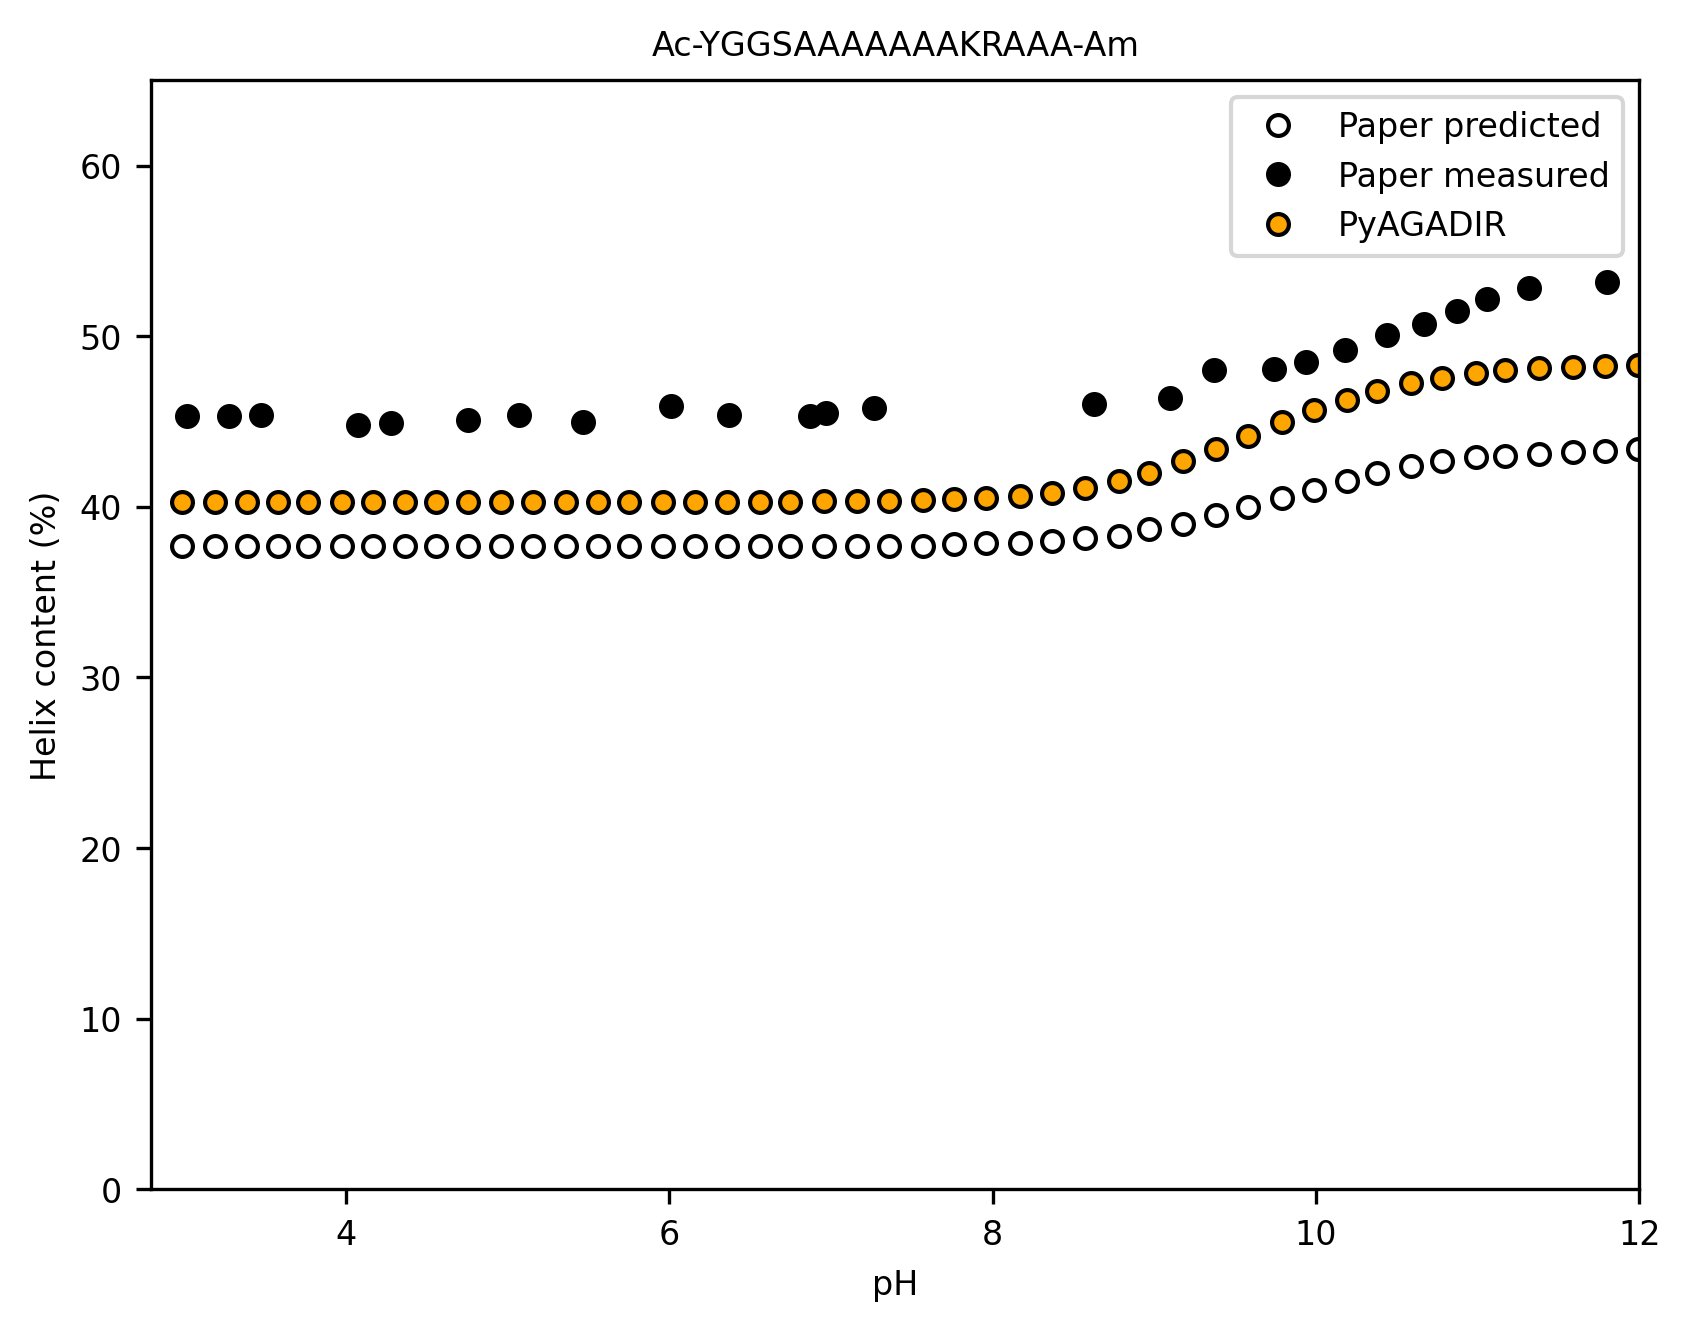
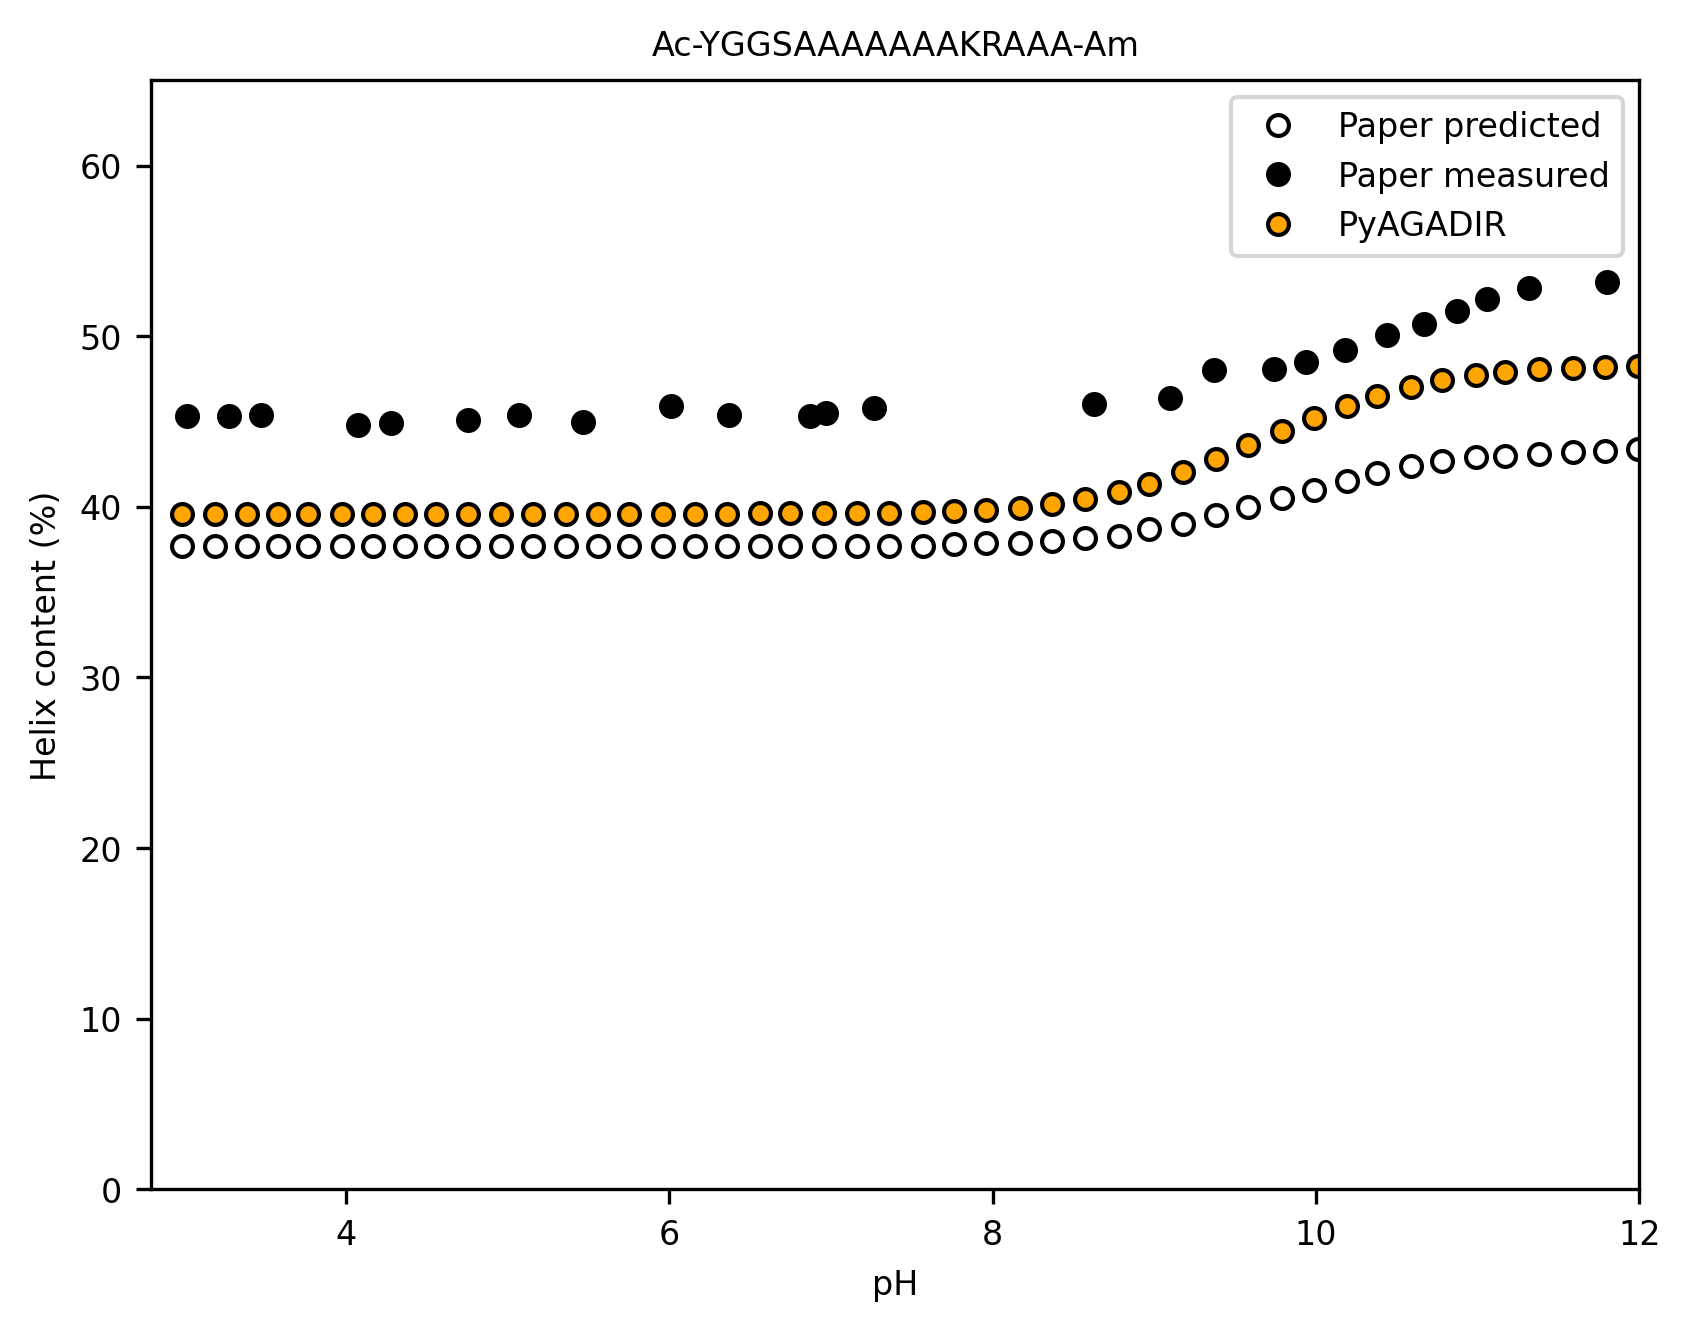
Revert "First-turn cation near field, with the charged Lys cells re-derived: 0.83 -> 0.803"
This reverts commit f9b0168 and regenerates the validation figures it changed.

The first-turn cation term acted only on charged Lys, Arg and His, but the
excess it was meant to remove is not a charge effect. In the Lys walk of
Lacroix et al. 1998 (Fig. 4g, Lys at N2 behind a Ser N-cap) the model
over-predicts by about as much above pH 10, where the Lys is neutral, as at
neutral pH. Cochran et al. 2001's N2 scan points the same way: against Ala at
N2, nearly every residue, charged or not, is predicted more helical than
measured (median about 0.22 kcal/mol), with Lys near the median. The term
therefore fitted part of a general N2 effect with a cation-only form, and with
the re-derived Lys cells the scored panels got worse overall (ALL 3.502 ->
3.542, structure 2.587 -> 2.828, Munoz & Serrano 1997 1.261 -> 1.642).

After the revert the scored panels are those of 34dfa10 plus the succinyl
change, which does not touch them: ALL 3.502, structure 2.587. Lacroix 1998
Figs 3b and 4 and Munoz & Serrano 1997 Fig. 4 are back to their state before
these changes; Munoz & Serrano 1995 Fig. 3 keeps the aromatic-His+ change.

Changed region(s): [[0.0923, 0.2772, 0.8923, 0.4005]]

diff --git a/pyagadir/energies.py b/pyagadir/energies.py
@@ -41,21 +41,13 @@ class ParamTable:
         return self._rows[key]
 
 
-# Extra first-turn energy (kcal/mol per +1 charge) of a helical cation at segment positions N1, N2, N3: the near-field
-# repulsion between the side-chain charge and the unpaired first-turn N-H groups that eq. 11 underestimates. From
-# continuum electrostatics (APBS) on built helices: helix minus PPII coil, uniform average over clash-free rotamers,
-# relative to the helix interior, interior dielectric 16 (the value at which the computed His+ - His0 contrasts match
-# Cochran et al. 2001, Protein Sci. 10, 463, N1 and N2 titrations), minus what eq. 11 already gives. With that one
-# constant the same calculation gives Lys at N1/N2 within 0.01 kcal/mol of the Cochran Lys scans (apolar-residue
-# reference). Salt-independent (near field). See params/README.md.
-FIRST_TURN_CATION = {"K": (0.126, 0.192, 0.007), "R": (0.092, 0.188, 0.019), "H": (0.076, 0.315, 0.123)}
-
 # Helix-state distance (A) between a succinyl N-cap's carboxylate and a charged side chain at N1, N2 or N3, used in
 # place of Lacroix 1998 Table VI 'N-cap f' (which places a free amine on the backbone: 9.2 A to N2 in the helix vs 9.6 A
 # in the coil). Each value is the distance at which this model's own Coulomb law reproduces the helix-minus-coil pair
 # energy from continuum electrostatics (APBS, carboxylate on the N-cap residue as the succinyl proxy, helix minus PPII,
-# rotamer-averaged, interior dielectric 16 as for FIRST_TURN_CATION) at 0.1 M and 3 C: acid N2 +0.50, acid N3 +0.35,
-# acid N1 +0.04, base N2 -0.34 kcal/mol. Pairs not listed keep Table VI. See params/README.md.
+# rotamer-averaged, interior dielectric 16, the value at which the same calculation matches the N1/N2 His titrations of
+# Cochran et al. 2001, Protein Sci. 10, 463) at 0.1 M and 3 C: acid N2 +0.50, acid N3 +0.35, acid N1 +0.04, base N2
+# -0.34 kcal/mol. Pairs not listed keep Table VI. See params/README.md.
 SUCCINYL_HELIX_DISTANCE = {("acid", 1): 9.33, ("acid", 2): 3.95, ("acid", 3): 5.27, ("base", 2): 4.80}
 
 
@@ -565,14 +557,6 @@ class PrecomputeParams:
             d_N, d_C = dist_n(n_pos), dist_c(c_pos)
             if d_N * 10.0 < 1.0 or d_C * 10.0 < 1.0:
                 return 0.0, 0.0
-            # First-turn near field: a helical Lys, Arg or His at N1-N3 sits next to the unpaired N-H groups of
-            # the first turn, and its long or bulky side chain leans back onto them. Eq. 11 at the Table VII
-            # distances underestimates this repulsion; the extra per +1 charge is FIRST_TURN_CATION (continuum
-            # electrostatics on built helices, helix minus PPII coil, rotamer-averaged, interior dielectric 16
-            # fitted to the His titrations of Cochran et al. 2001). Acids get no counterpart here: their attraction
-            # at the first turn is carried by their Table 1 N1-N3 cells.
-            if aa in FIRST_TURN_CATION and 1 <= n_pos <= 3 and c_pos >= 1:
-                phi_N += FIRST_TURN_CATION[aa][n_pos - 1]
             # the nearest end (ties go to the N-terminus); the other end as a half charge
             if n_pos <= c_pos:
                 if n_pos <= 9:

diff --git a/tests/test_capping.py b/tests/test_capping.py
@@ -153,25 +153,3 @@ def test_staple_full_with_capping_box():
     calc = EnergyCalculator(seq="LSAAELAAAAAAAA", i=1, j=12, pH=PH, T=TEMP, ionic_strength=IONIC, ncap=None, ccap=None,
                             params=EnergyCalculator.snapshot_params())
     assert calc.get_dG_staple() == pytest.approx(-0.90, abs=1e-6)
-
-
-def test_first_turn_cation_near_field():
-    """A helical Lys at N2 carries the FIRST_TURN_CATION near field on top of eq. 11; at N5 it does not."""
-    from pyagadir.energies import FIRST_TURN_CATION
-
-    def phi(pos):
-        seq = "A" * (pos - 1) + "K" + "A" * (12 - pos)
-        c = EnergyCalculator(seq=seq, i=0, j=14, pH=7.0, T=0.0, ionic_strength=0.1, ncap="Ac", ccap="Am")
-        return sum(c._sidechain_dipole_potential(pos))
-
-    def phi_ala_host_eq11(pos):
-        from pyagadir import energies as E
-        saved = dict(E.FIRST_TURN_CATION)
-        E.FIRST_TURN_CATION.clear()
-        try:
-            return phi(pos)
-        finally:
-            E.FIRST_TURN_CATION.update(saved)
-
-    assert abs((phi(2) - phi_ala_host_eq11(2)) - FIRST_TURN_CATION["K"][1]) < 1e-9
-    assert abs(phi(5) - phi_ala_host_eq11(5)) < 1e-12

diff --git a/tests/test_ionization.py b/tests/test_ionization.py
@@ -36,11 +36,8 @@ def _calc(seq, ncap, ccap, pH, T=0.0, M=0.01, i=None, j=None):
 
 
 def test_segment_ionization_free_energy_zero_when_groups_fully_charged():
-    # Lys stays charged at pH 7, so the ionisation free energy is ~0. Not exactly 0: Lys2 sits at N2 in the
-    # first-turn field (FIRST_TURN_CATION), which lowers its helix pKa by ~0.14 units, and the far-from-pKa
-    # residual is ~0.001 kcal/mol.
     c = _calc("AKAAAAKAAAAKAAGY", "Ac", "Am", pH=7.0)
-    assert abs(c.get_dG_ionization()) < 2e-3
+    assert abs(c.get_dG_ionization()) < 1e-3
 
 
 def test_segment_ionization_free_energy_positive_for_titrating_acid_pairs():

diff --git a/pyagadir/data/params/README.md b/pyagadir/data/params/README.md
@@ -33,8 +33,6 @@ The Glu (E) row departs from the published table: its charged columns are 0.172 
 
 The Ile (I) and Leu (L) N3 cells depart from the published table: I 1.08 → 1.26 and L 0.98 → 1.21. The published N3 values come from Petukhov et al. (1998, J. Mol. Biol. 278, 279; peptides Ac-AAXAAAAARAAARGGY-NH2) and were fitted in an earlier version of the model. With this model's other terms they no longer reproduce those peptides. Each cell was re-fitted so that the model's X3/Ala helicity ratio equals the measured one in two independent hosts, and the mean of the two fits was taken. The fits were +0.20 (Ile) and +0.16 (Leu) for Petukhov et al. (1998), and +0.17 and +0.30 for Iqbalsyah & Doig (2004, Protein Sci. 13, 32; Ac-AAXAAAAKAAAAKAGY-NH2). Met, Val and Gly N3 cells reproduce Petukhov et al. (1998) as published and are unchanged.
 
-The charged Lys cells at helical positions (N1, N2, N3, N4, Ncen, C1, C2, C3) depart from the published table: 0.83 -> 0.803. They change together with the first-turn cation term (`FIRST_TURN_CATION` in energies.py): a helical Lys, Arg or His at N1, N2 or N3 pays an extra near-field energy per +1 charge (K +0.126/+0.192/+0.007, R +0.092/+0.188/+0.019, His +0.076/+0.315/+0.123 kcal/mol at N1/N2/N3), the repulsion between the side-chain charge and the unpaired first-turn N-H groups that eq. 11 underestimates. The values come from continuum electrostatics (APBS) on built helices, helix minus PPII coil, averaged over clash-free rotamers and taken relative to the helix interior, at the interior dielectric (16) at which the computed His+ - His0 contrasts match the N1 and N2 His titrations of Cochran, Penel & Doig (2001, Protein Sci. 10, 463); at that dielectric the same calculation gives Lys at N1/N2 within 0.01 kcal/mol of the Cochran Lys scans, measured against the apolar residues. Acids get no counterpart because their first-turn attraction is already in their Table 1 N1-N3 cells; the published table gives the bases flat cells. Lacroix's flat Lys value was fitted to Lys-rich peptides without this term, so it carries an average first-turn Lys cost; the Lys cells were re-derived so that Lys-rich, otherwise uncharged literature peptides (116 rows: Chakrabartty et al. 1993, 1994; Padmanabhan et al. 1994, 1996; Doig & Baldwin 1995 Tables 1 and 3; Cochran et al. 2001; Iqbalsyah & Doig 2004; at least three Lys, no Asp, Glu, His, Arg or Cys) keep the mean signed residual they had without the term (-1.19 helix points). Effect against the previous model (RMSE): Lacroix -0.13, Munoz & Serrano 1995 +0.09, Munoz & Serrano 1997 +0.38, all scored panels +0.04; literature sets Cochran et al. 2001 N2 -1.08 and its titrations -0.86, the C-peptide papers -0.3 to -0.4; worse by more than 1.0: Marqusee & Baldwin 1987 (+1.27) and Padmanabhan et al. 1996 (+1.04), both with a Lys at N2. Lys in the Ala-Gln host of Scholtz et al. 1993 stays over-predicted, more so than before.
-
 Capping box: when the N-cap is Ser, Thr, Asp or Asn and N3 is Glu, the Nc-3 value gets an extra -0.9 kcal/mol, weighted by the helix-state ionisation of that Glu (set in `get_dG_Ncap`). The published Nc-3 column gives Ser no capping-box advantage at all (Nc-3 -0.65 vs Nc-1 -0.70). Peptide measurements that isolate the motif put it at -0.9 +/- 0.3 kcal/mol (mean of five within-paper comparisons): Glu vs Ala, Gln and Asp at N3 with a Ser N-cap (Zhou et al. 1994, Proteins 18, 1, Table I), and Ser vs Ala N-caps (Petukhov et al. 1996, Biochemistry 35, 387, Table 1). Glu outperforms Gln by as much as it outperforms Ala, which places the effect on the charged carboxylate.
 
 
@@ -108,7 +106,7 @@ C-cap f 		Distance between the free C-terminal group, when this group is located
 C’ f 		Distance between the free C-terminal group, when this group is located at position C’, 
 		and a helical residue at position i-x.  
 
-A succinylated N-cap departs from row 'N-cap f' for charged side chains at N1-N3. The row places a free amine on the backbone (9.2 A to N2 in the helix against 9.6 A in the coil, almost no change between the states), but the succinyl carboxylate sits on a flexible -CH2-CH2- arm and an N2/N3 side chain leans back toward the N-cap in the helix. Its helix distances (`SUCCINYL_HELIX_DISTANCE` in energies.py) are acid N1 9.33, acid N2 3.95, acid N3 5.27 and Lys/Arg N2 4.80 A; other pairs keep the table. Each is the distance at which this model's Coulomb law reproduces the helix-minus-coil pair energy from continuum electrostatics (APBS; a carboxylate on the N-cap residue as the succinyl proxy; helix minus PPII; rotamer-averaged; interior dielectric 16, as for the first-turn cation term) at 0.1 M and 3 C: +0.50 (acid N2), +0.35 (acid N3), +0.04 (acid N1), -0.34 (base N2) kcal/mol. The ionisation solver uses the same distances. Effect on the succinyl-minus-acetyl contrasts with Glu2 (helix points, rms error): Shoemaker et al. 1987 3.2 -> 2.6, Mitchinson & Baldwin 1986 IV-III 4.5 -> 1.6; without Glu2 unchanged. Because the C-peptide family is under-predicted overall, the absolute errors of its succinyl peptides rise (RMSE Mitchinson & Baldwin 1986 +1.07, Shoemaker et al. 1987 +0.74); the scored panels do not change.
+A succinylated N-cap departs from row 'N-cap f' for charged side chains at N1-N3. The row places a free amine on the backbone (9.2 A to N2 in the helix against 9.6 A in the coil, almost no change between the states), but the succinyl carboxylate sits on a flexible -CH2-CH2- arm and an N2/N3 side chain leans back toward the N-cap in the helix. Its helix distances (`SUCCINYL_HELIX_DISTANCE` in energies.py) are acid N1 9.33, acid N2 3.95, acid N3 5.27 and Lys/Arg N2 4.80 A; other pairs keep the table. Each is the distance at which this model's Coulomb law reproduces the helix-minus-coil pair energy from continuum electrostatics (APBS; a carboxylate on the N-cap residue as the succinyl proxy; helix minus PPII; rotamer-averaged; interior dielectric 16, the value at which the same calculation matches the N1/N2 His titrations of Cochran et al. 2001) at 0.1 M and 3 C: +0.50 (acid N2), +0.35 (acid N3), +0.04 (acid N1), -0.34 (base N2) kcal/mol. The ionisation solver uses the same distances. Effect on the succinyl-minus-acetyl contrasts with Glu2 (helix points, rms error): Shoemaker et al. 1987 3.2 -> 2.6, Mitchinson & Baldwin 1986 IV-III 4.5 -> 1.6; without Glu2 unchanged. Because the C-peptide family is under-predicted overall, the absolute errors of its succinyl peptides rise (RMSE Mitchinson & Baldwin 1986 +1.07, Shoemaker et al. 1987 +0.74); the scored panels do not change.
 
 ## table_7_Ncap_lacroix
 Distances (Å) between charged amino acids and the half charge from the helix macrodipole.
